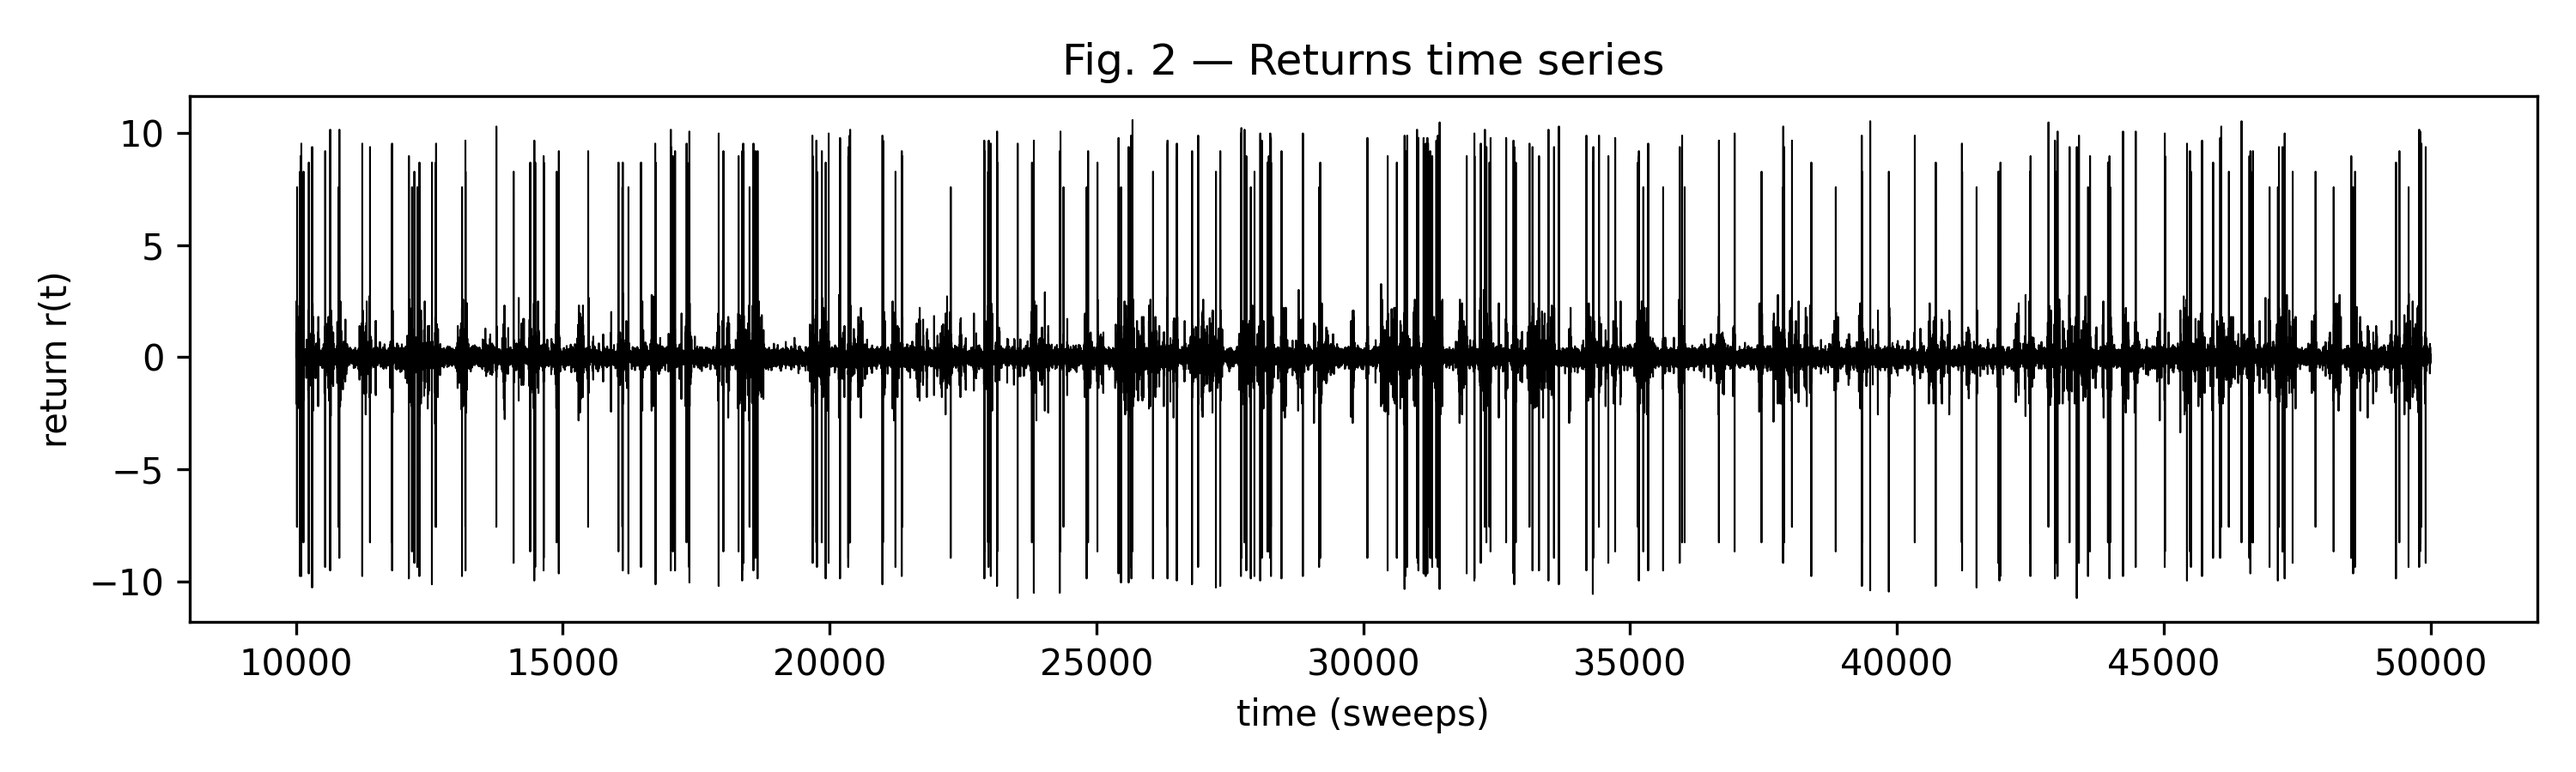
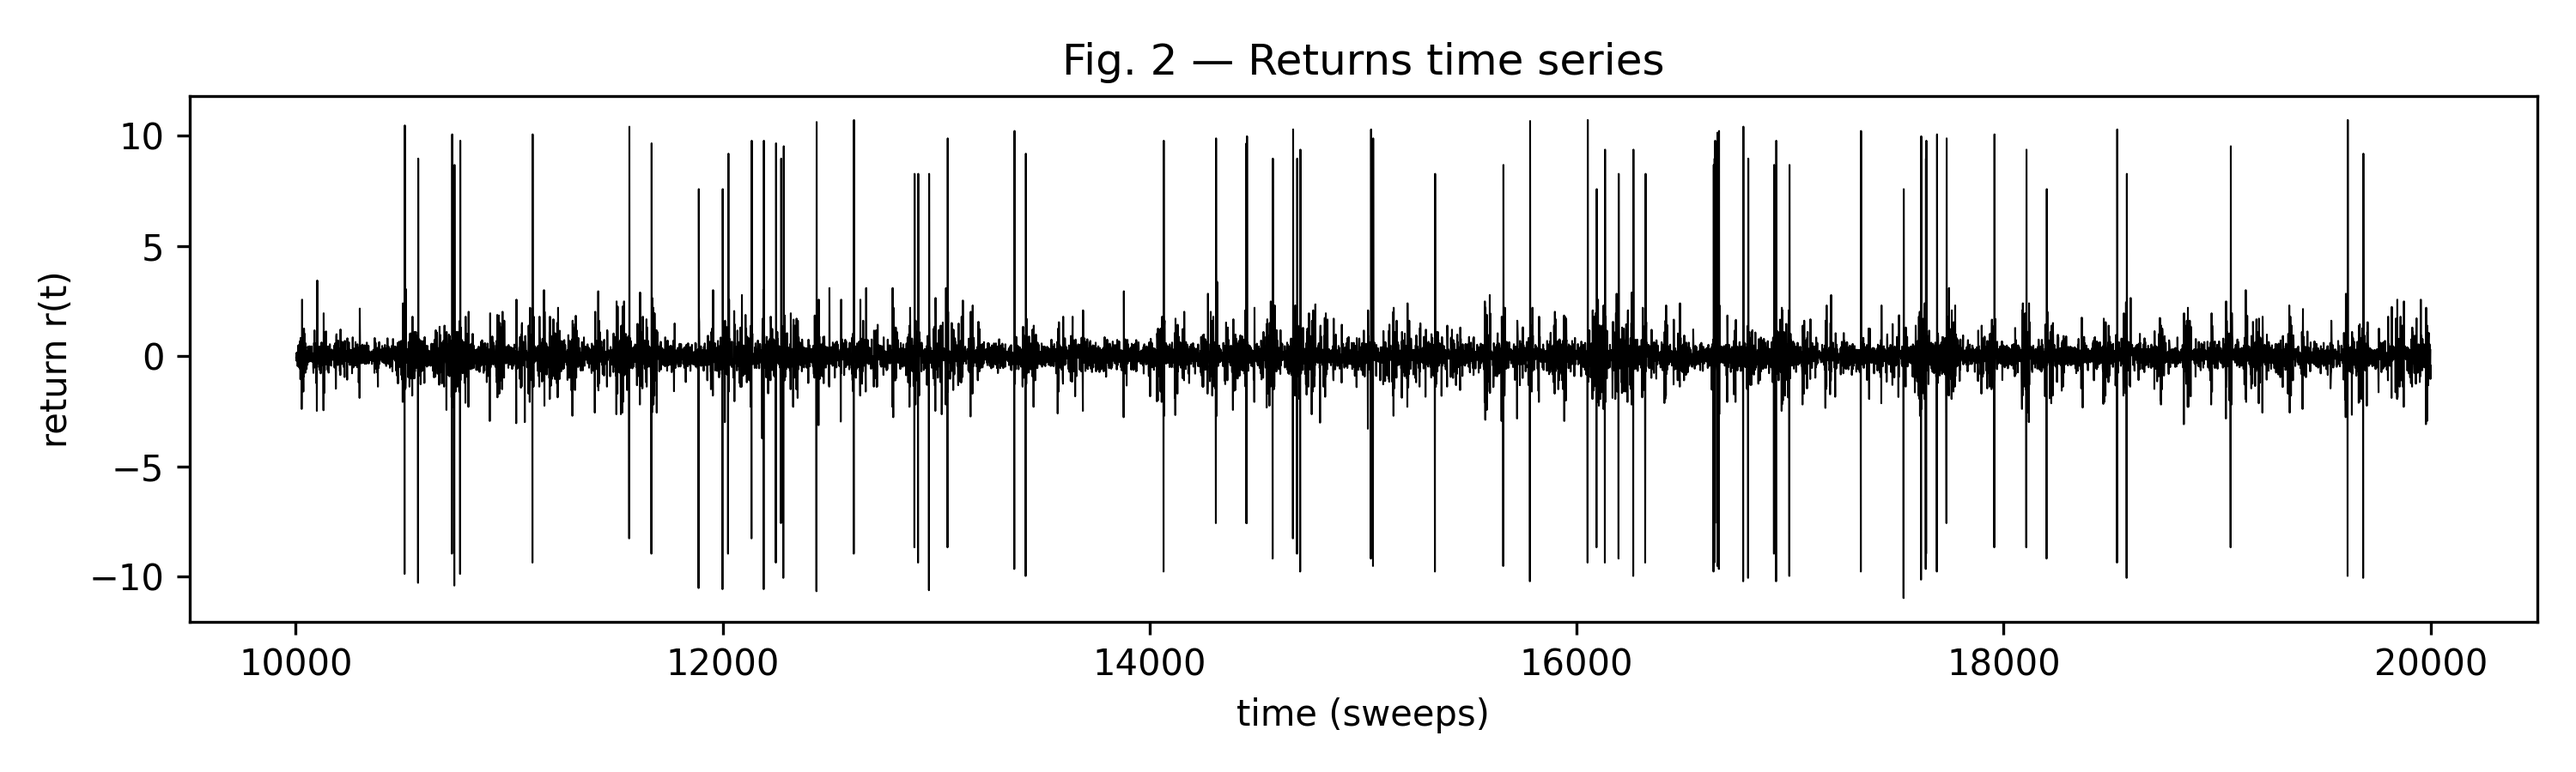
Update plotting pipeline: Yamano-style Fig. 3 & 4, windowed Fig. 2 & 5

diff --git a/2d_Bornholdt_model_plots_final/plot_paper_figures.py b/2d_Bornholdt_model_plots_final/plot_paper_figures.py
@@ -64,13 +64,19 @@ def autocorrelation(x, max_lag):
         acf[lag] = np.mean(x[:-lag] * x[lag:]) / var
     return acf
 
+def window_by_t(data, t_min, t_max):
+    t = data["t"]
+    mask = (t >= t_min) & (t <= t_max)
+    return data[mask]
 
 # ---------------------------------------------------------------------
 # FIGURE 2 — Returns time series
 # ---------------------------------------------------------------------
-def plot_fig2(data, outdir):
-    t = data["t"]
-    r = data["r"]
+def plot_fig2(data, outdir, t_min=10000, t_max=20000):
+    d = window_by_t(data, t_min, t_max)
+
+    t = d["t"]
+    r = d["r"]
     mask = np.isfinite(r)
 
     plt.figure(figsize=(10, 3))
@@ -121,36 +127,49 @@ def plot_fig4(data, outdir, max_lag=2000):
     abs_r = data["abs_r"]
     abs_r = abs_r[np.isfinite(abs_r)]
 
-    acf = autocorrelation(abs_r, max_lag)
+    # Volatility V(t) = |ret(t)| (Yamano: n=1, gamma=1)
+    V = abs_r
+
+    acf = autocorrelation(V, max_lag)
+
+    # Yamano starts from T = 1 (not T = 0)
+    lags = np.arange(1, len(acf), dtype=float)
+    vals = acf[1:]
+
+    # keep only positive values for log-log
+    mask = np.isfinite(vals) & (vals > 0)
+    lags = lags[mask]
+    vals = vals[mask]
 
     plt.figure(figsize=(6, 4))
-    plt.semilogx(np.arange(len(acf)), acf, lw=1.0, color="black")
-    plt.xlabel("lag T")
-    plt.ylabel("ACF(|ret|)")
-    plt.title("Fig. 4 — Volatility autocorrelation")
+    plt.loglog(lags, vals, lw=1.0, color="black")
+    plt.xlabel("Time")
+    plt.ylabel("Autocorrelation function")
+    plt.title("Fig. 4 — Volatility autocorrelation (Yamano style)")
     plt.tight_layout()
-    plt.savefig(os.path.join(outdir, "fig4_volatility_acf.png"), dpi=300)
+    plt.savefig(os.path.join(outdir, "fig4_volatility_autocorr_yamano.png"), dpi=300)
     plt.close()
+
 
 
 # ---------------------------------------------------------------------
 # FIGURE 5 — Fraction of chartists vs volatility
 # ---------------------------------------------------------------------
-def plot_fig5(data, outdir):
-    t = data["t"]
-    abs_r = data["abs_r"]
-    chartist_frac = data["chartist_frac"]
+def plot_fig5(data, outdir, t_min=10000, t_max=20000):
+    d = window_by_t(data, t_min, t_max)
+
+    t = d["t"]
+    abs_r = d["abs_r"]
+    chartist_frac = d["chartist_frac"]
 
     mask = np.isfinite(abs_r) & np.isfinite(chartist_frac)
 
     fig, ax1 = plt.subplots(figsize=(10, 4))
 
-    # Volatility (|ret|)
     ax1.plot(t[mask], abs_r[mask], color="black", lw=0.5)
     ax1.set_xlabel("time (sweeps)")
     ax1.set_ylabel("|ret(t)|", color="black")
 
-    # Strategy fraction (second axis)
     ax2 = ax1.twinx()
     ax2.plot(t[mask], chartist_frac[mask], color="red", lw=0.8)
     ax2.set_ylabel("fraction of chartists (C=-1)", color="red")
@@ -176,13 +195,14 @@ def main():
     if missing:
         raise ValueError(f"Missing columns {missing}. Found: {data.dtype.names}")
 
-    plot_fig2(data, outdir)
-    plot_fig3_yamano(data, outdir, scale=100.0)  # Yamano-style Fig 3
+    plot_fig2(data, outdir, t_min=10000, t_max=20000)
+    plot_fig3_yamano(data, outdir, scale=100.0)
     plot_fig4(data, outdir, max_lag=2000)
-    plot_fig5(data, outdir)
+    plot_fig5(data, outdir, t_min=10000, t_max=20000)
 
     print(f"Figures saved to '{outdir}/'")
 
 
 if __name__ == "__main__":
     main()
+

diff --git a/2d_Bornholdt_model_plots_final/run_baseline.py b/2d_Bornholdt_model_plots_final/run_baseline.py
@@ -15,11 +15,11 @@ def main() -> None:
     ap.add_argument("--J", type=float, default=1.0)
 
     # Intermediary choice between (T=1.5, alpha=4) and (T=1.0, alpha=8)
-    ap.add_argument("--T", type=float, default=1.2)
-    ap.add_argument("--alpha", type=float, default=6.0)
+    ap.add_argument("--T", type=float, default=1.5)
+    ap.add_argument("--alpha", type=float, default=8.0)
 
     # Larger than 50k, far smaller than 1e6
-    ap.add_argument("--steps", type=int, default=50_000, help="Total sweeps (1 sweep = 1 time step).")
+    ap.add_argument("--steps", type=int, default=200_000, help="Total sweeps (1 sweep = 1 time step).")
     ap.add_argument("--burn_in", type=int, default=10_000)
     ap.add_argument("--thin", type=int, default=1)
     ap.add_argument("--seed", type=int, default=0)
